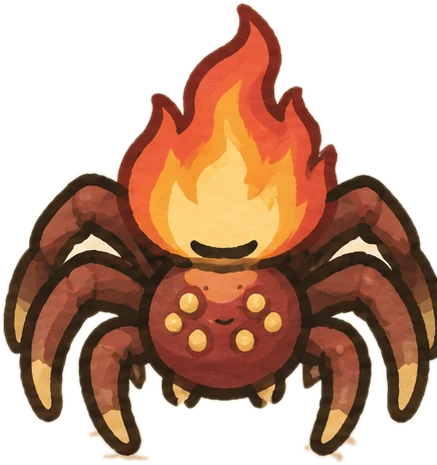
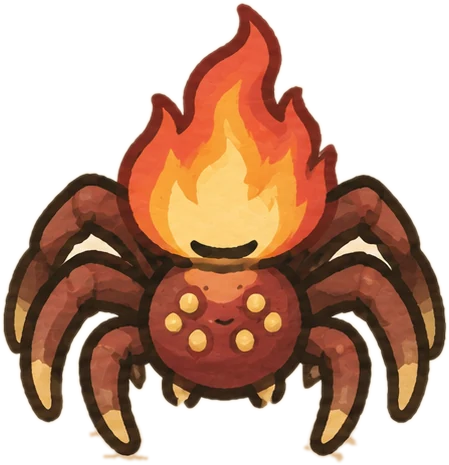
Site: bestiario sem faixa escura (mesmo fundo creme da pagina); aranha com a perna inteira
Claude-Session: https://claude.ai/code/session_01UuVMLphjp9wAN4kHUYy4Rb

diff --git a/index.html b/index.html
@@ -31,7 +31,7 @@
 <link rel="stylesheet" href="/fonts/fonts2.css">
 <link rel="stylesheet" href="/fonts/patrick-hand.css">
 <link rel="stylesheet" href="/site.css">
-<link rel="stylesheet" href="/home.css?v=54">
+<link rel="stylesheet" href="/home.css?v=56">
 <script type="application/ld+json">[{"@context": "https://schema.org", "@type": "SoftwareApplication", "name": "Dungeonlog", "applicationCategory": "LifestyleApplication", "operatingSystem": "Android", "description": "Todo dia aparece um monstro que só cai se você concluir as tarefas. Ganhe XP, moedas e equipamentos e suba de nível. Plano grátis, disponível no Android.", "inLanguage": "pt-BR", "url": "https://dungeonlog.weberlabs.com.br/", "image": "https://dungeonlog.weberlabs.com.br/img/og-pt.jpg", "offers": {"@type": "Offer", "price": "0", "priceCurrency": "BRL"}, "publisher": {"@type": "Organization", "name": "Weberlabs", "url": "https://dungeonlog.weberlabs.com.br/"}}, {"@context": "https://schema.org", "@type": "FAQPage", "mainEntity": [{"@type": "Question", "name": "O que é o Dungeonlog?", "acceptedAnswer": {"@type": "Answer", "text": "É um app de tarefas com tema de RPG. Você cria a lista do dia, e cada tarefa concluída rende XP, moedas e equipamentos para o seu herói. Todo dia há um monstro que só é derrotado quando todas as tarefas do dia estão concluídas."}}, {"@type": "Question", "name": "Como funciona o monstro do dia?", "acceptedAnswer": {"@type": "Answer", "text": "Cada dia aparece um monstro. Se você conclui todas as tarefas do dia, ele cai e você vence o dia. Se sobrar tarefa, ele foge e o dia não conta. É um jeito de transformar a lista em um desafio com começo, meio e fim."}}, {"@type": "Question", "name": "O Dungeonlog é grátis?", "acceptedAnswer": {"@type": "Answer", "text": "Há um plano gratuito e um plano PRO opcional. O plano gratuito tem limites em alguns recursos, como temas, estatísticas e quantidade de tarefas. O PRO libera tudo e custa R$ 17,90 por mês, R$ 89,90 por ano ou R$ 199,90 uma única vez (vitalício). O plano anual pode ter 7 dias de teste grátis pela Google Play."}}, {"@type": "Question", "name": "Em quais dispositivos funciona?", "acceptedAnswer": {"@type": "Answer", "text": "O app para Android está disponível na Google Play. Ainda não existe app nativo para iPhone."}}, {"@type": "Question", "name": "Como o Dungeonlog é diferente do Habitica?", "acceptedAnswer": {"@type": "Answer", "text": "O Habitica é um app consolidado e gratuito (com assinatura opcional), com grupos e missões em equipe. O Dungeonlog é mais simples e focado: um monstro por dia que depende de concluir as tarefas do dia, loja diária e visual em pixel art. Se você quer comunidade e missões em grupo, o Habitica pode servir melhor. Se quer algo direto, vale testar o Dungeonlog."}}, {"@type": "Question", "name": "Dá para usar para estudar?", "acceptedAnswer": {"@type": "Answer", "text": "Dá para organizar tarefas de estudo, como exercícios, revisões e leituras. Ele não é uma plataforma de conteúdo nem um cronograma de matérias: é um gerenciador de tarefas com recompensa."}}, {"@type": "Question", "name": "Preciso criar uma conta?", "acceptedAnswer": {"@type": "Answer", "text": "Não precisa. Você pode entrar como convidado e começar na hora, sem cadastro; nesse modo o progresso fica salvo só neste aparelho. Se criar uma conta com Google ou e-mail, o progresso fica guardado e funciona em mais de um aparelho, e o que você fez como convidado é levado para a conta. Você pode excluir sua conta e seus dados quando quiser."}}, {"@type": "Question", "name": "E os meus dados?", "acceptedAnswer": {"@type": "Answer", "text": "Veja a Política de Privacidade e os Termos de Uso abaixo. A página de exclusão de conta explica como apagar os seus dados."}}]}]</script>
 </head>
 <body>
@@ -96,7 +96,7 @@
 
 <section class="bestiary" aria-labelledby="bst">
   <div class="wrapL"><h2 id="bst">63 monstros esperando por você</h2><p class="sub">Um deles aparece a cada dia.</p></div>
-  <div class="bst-row" aria-hidden="true"><img src="/img/art/m-esqueleto.webp" width="336" height="474" alt="" loading="lazy" decoding="async"><img src="/img/art/m-mimico.webp" width="399" height="362" alt="" loading="lazy" decoding="async"><img src="/img/art/m-aranha.webp" width="437" height="465" alt="" loading="lazy" decoding="async"><img src="/img/art/m-goblin.webp" width="384" height="405" alt="" loading="lazy" decoding="async"><img src="/img/art/m-fantasma.webp" width="392" height="404" alt="" loading="lazy" decoding="async"></div>
+  <div class="bst-row" aria-hidden="true"><img src="/img/art/m-esqueleto.webp" width="336" height="474" alt="" loading="lazy" decoding="async"><img src="/img/art/m-mimico.webp" width="399" height="362" alt="" loading="lazy" decoding="async"><img src="/img/art/m-aranha.webp" width="449" height="465" alt="" loading="lazy" decoding="async"><img src="/img/art/m-goblin.webp" width="384" height="405" alt="" loading="lazy" decoding="async"><img src="/img/art/m-fantasma.webp" width="392" height="404" alt="" loading="lazy" decoding="async"></div>
 </section>
 
 <section class="block alt" aria-labelledby="gal">

diff --git a/en/index.html b/en/index.html
@@ -31,7 +31,7 @@
 <link rel="stylesheet" href="/fonts/fonts2.css">
 <link rel="stylesheet" href="/fonts/patrick-hand.css">
 <link rel="stylesheet" href="/site.css">
-<link rel="stylesheet" href="/home.css?v=54">
+<link rel="stylesheet" href="/home.css?v=56">
 <script type="application/ld+json">[{"@context": "https://schema.org", "@type": "SoftwareApplication", "name": "Dungeonlog", "applicationCategory": "LifestyleApplication", "operatingSystem": "Android", "description": "Every day a monster appears and only falls if you finish your tasks. Earn XP, coins and gear and level up. Free plan, available on Android.", "inLanguage": "en", "url": "https://dungeonlog.weberlabs.com.br/en/", "image": "https://dungeonlog.weberlabs.com.br/img/og-en.jpg", "offers": {"@type": "Offer", "price": "0", "priceCurrency": "BRL"}, "publisher": {"@type": "Organization", "name": "Weberlabs", "url": "https://dungeonlog.weberlabs.com.br/"}}, {"@context": "https://schema.org", "@type": "FAQPage", "mainEntity": [{"@type": "Question", "name": "What is Dungeonlog?", "acceptedAnswer": {"@type": "Answer", "text": "It's a to-do app with an RPG theme. You build the day's list, and every finished task earns XP, coins and gear for your hero. Every day there is a monster that is only defeated when all the day's tasks are done."}}, {"@type": "Question", "name": "How does the daily monster work?", "acceptedAnswer": {"@type": "Answer", "text": "A monster appears each day. If you finish all the day's tasks, it falls and you win the day. If a task is left, it escapes and the day doesn't count. It turns your list into a challenge with a start and an end."}}, {"@type": "Question", "name": "Is Dungeonlog free?", "acceptedAnswer": {"@type": "Answer", "text": "There is a free plan and an optional PRO plan. The free plan has limits on some features, such as themes, stats and number of tasks. PRO unlocks everything and costs R$ 17.90 per month, R$ 89.90 per year or R$ 199.90 once (lifetime), in Brazilian reais; prices may vary by country in the store. The annual plan may include a 7-day free trial through Google Play."}}, {"@type": "Question", "name": "Which devices does it work on?", "acceptedAnswer": {"@type": "Answer", "text": "The Android app is available on Google Play. There is no native iPhone app yet."}}, {"@type": "Question", "name": "How is Dungeonlog different from Habitica?", "acceptedAnswer": {"@type": "Answer", "text": "Habitica is an established, free app (with an optional subscription) with parties and group quests. Dungeonlog is simpler and more focused: one monster per day that depends on finishing the day's tasks, a daily shop and pixel-art visuals. If you want community and group quests, Habitica may suit you better. If you want something direct, give Dungeonlog a try."}}, {"@type": "Question", "name": "Can I use it to study?", "acceptedAnswer": {"@type": "Answer", "text": "You can organize study tasks, such as exercises, reviews and readings. It is not a content platform or a subject schedule: it is a task manager with rewards."}}, {"@type": "Question", "name": "Do I need an account?", "acceptedAnswer": {"@type": "Answer", "text": "No. You can continue as a guest and start right away, with no sign-up; in that mode your progress is saved only on this device. If you create an account with Google or email, your progress is kept safe and works on more than one device, and what you did as a guest is carried over to the account. You can delete your account and data at any time."}}, {"@type": "Question", "name": "What about my data?", "acceptedAnswer": {"@type": "Answer", "text": "See the Privacy Policy and Terms of Use below. The account deletion page explains how to erase your data."}}]}]</script>
 </head>
 <body>
@@ -96,7 +96,7 @@
 
 <section class="bestiary" aria-labelledby="bst">
   <div class="wrapL"><h2 id="bst">63 monsters are waiting for you</h2><p class="sub">One shows up each day.</p></div>
-  <div class="bst-row" aria-hidden="true"><img src="/img/art/m-esqueleto.webp" width="336" height="474" alt="" loading="lazy" decoding="async"><img src="/img/art/m-mimico.webp" width="399" height="362" alt="" loading="lazy" decoding="async"><img src="/img/art/m-aranha.webp" width="437" height="465" alt="" loading="lazy" decoding="async"><img src="/img/art/m-goblin.webp" width="384" height="405" alt="" loading="lazy" decoding="async"><img src="/img/art/m-fantasma.webp" width="392" height="404" alt="" loading="lazy" decoding="async"></div>
+  <div class="bst-row" aria-hidden="true"><img src="/img/art/m-esqueleto.webp" width="336" height="474" alt="" loading="lazy" decoding="async"><img src="/img/art/m-mimico.webp" width="399" height="362" alt="" loading="lazy" decoding="async"><img src="/img/art/m-aranha.webp" width="449" height="465" alt="" loading="lazy" decoding="async"><img src="/img/art/m-goblin.webp" width="384" height="405" alt="" loading="lazy" decoding="async"><img src="/img/art/m-fantasma.webp" width="392" height="404" alt="" loading="lazy" decoding="async"></div>
 </section>
 
 <section class="block alt" aria-labelledby="gal">

diff --git a/home.css b/home.css
@@ -119,12 +119,11 @@ h2::after{ content:""; display:block; width:150px; height:12px; margin-top:10px;
 @media (max-width:820px){ .steps,.features,.who{ grid-template-columns:1fr; } section.block{ padding:62px 22px; } .steps .card, .features .feat{ --rot:0deg !important; } }
 
 /* ---------- bestiário: faixa escura (dungeon) com os monstros em pixel art, como no app ---------- */
-.bestiary{ position:relative; overflow:hidden; padding:88px 0 92px; background:var(--ink); color:var(--paper); text-align:center; border-block:3px solid var(--ink); }
-.bestiary h2{ color:var(--paper); }
-.bestiary .sub{ color:#d8c6a4; margin-left:auto; margin-right:auto; font-size:1.3rem; }
+.bestiary{ position:relative; overflow:hidden; padding:70px 0 84px; text-align:center; }
+.bestiary .sub{ margin-left:auto; margin-right:auto; font-size:1.3rem; }
 .bestiary .wrapL{ padding:0 24px; }
 .bst-row{ margin:44px auto 0; display:flex; flex-wrap:wrap; justify-content:center; align-items:flex-end; gap:10px 30px; max-width:1100px; padding:0 20px; }
-.bst-row img{ height:176px; width:auto; display:block; filter:drop-shadow(0 10px 8px rgba(0,0,0,.35)); transition:translate .3s cubic-bezier(.34,1.56,.64,1), rotate .3s cubic-bezier(.34,1.56,.64,1), scale .3s cubic-bezier(.34,1.56,.64,1); }
+.bst-row img{ height:176px; width:auto; display:block; filter:drop-shadow(0 9px 6px rgba(43,35,32,.22)); transition:translate .3s cubic-bezier(.34,1.56,.64,1), rotate .3s cubic-bezier(.34,1.56,.64,1), scale .3s cubic-bezier(.34,1.56,.64,1); }
 .bst-row img:hover{ translate:0 -10px; rotate:-4deg; scale:1.08; }
 .bst-cap{ margin-top:14px; font-size:.92rem; color:#b9a782; }
 .strip{ display:block; margin-top:22px; opacity:.8; overflow:hidden; -webkit-mask-image:linear-gradient(90deg,transparent,#000 9%,#000 91%,transparent); mask-image:linear-gradient(90deg,transparent,#000 9%,#000 91%,transparent); }
